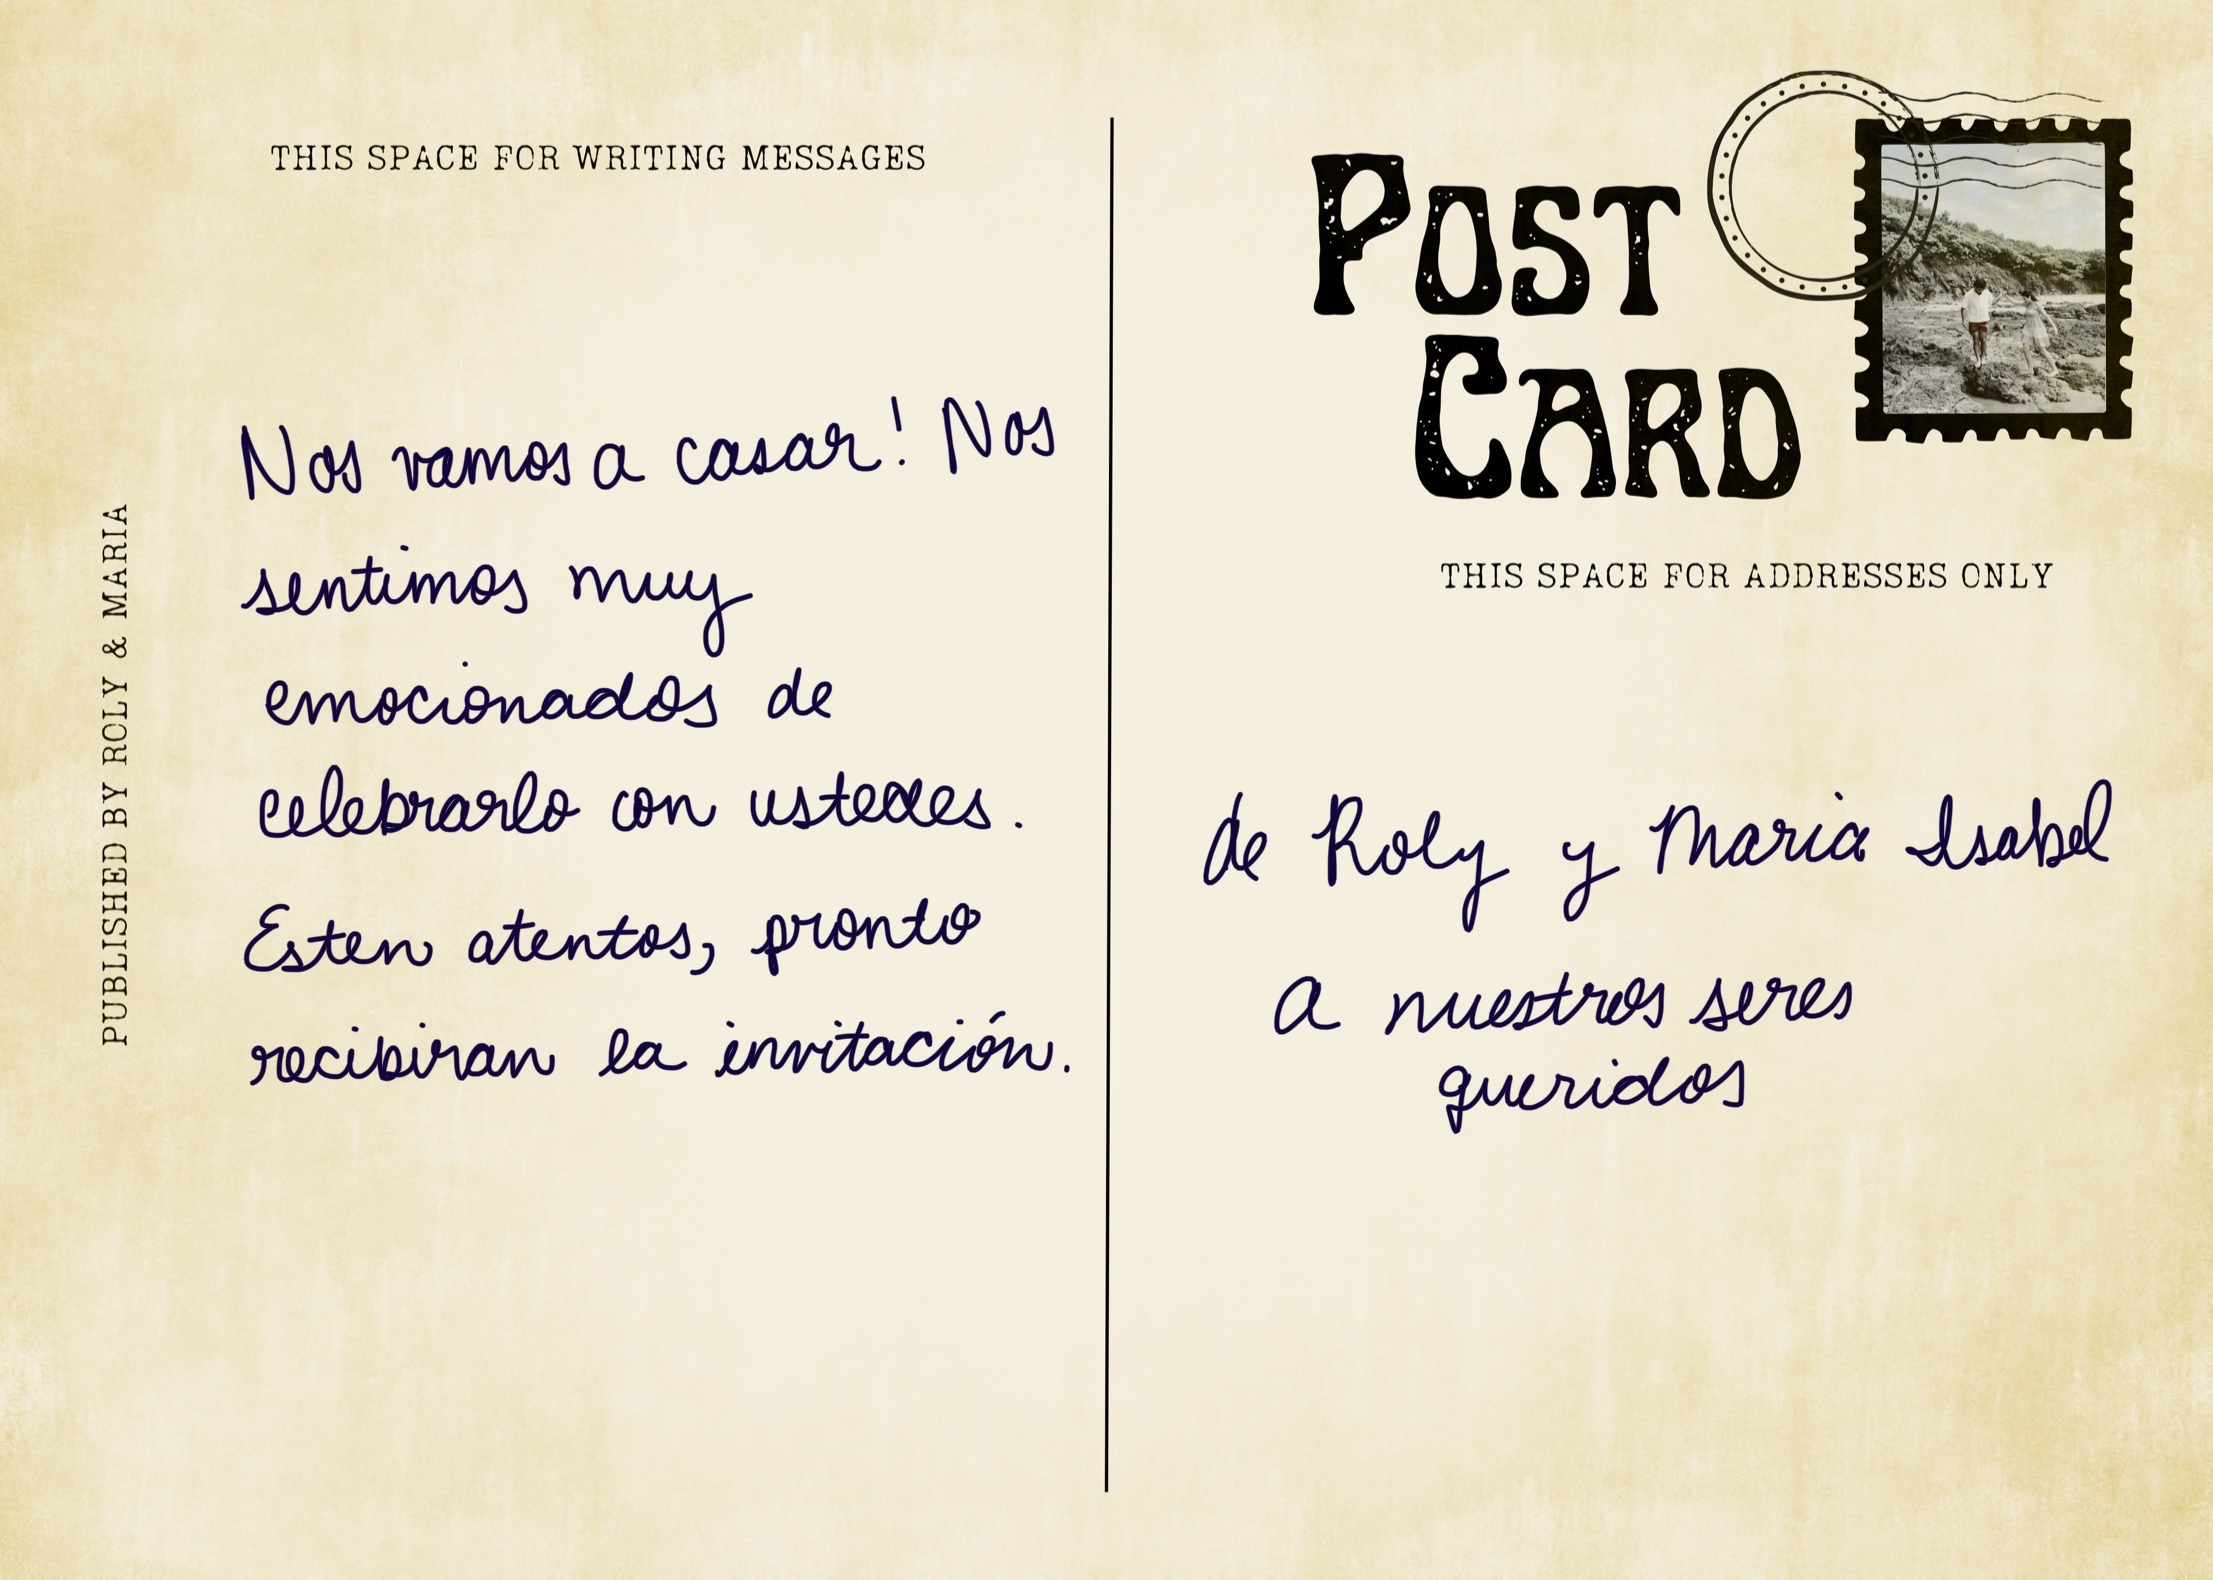
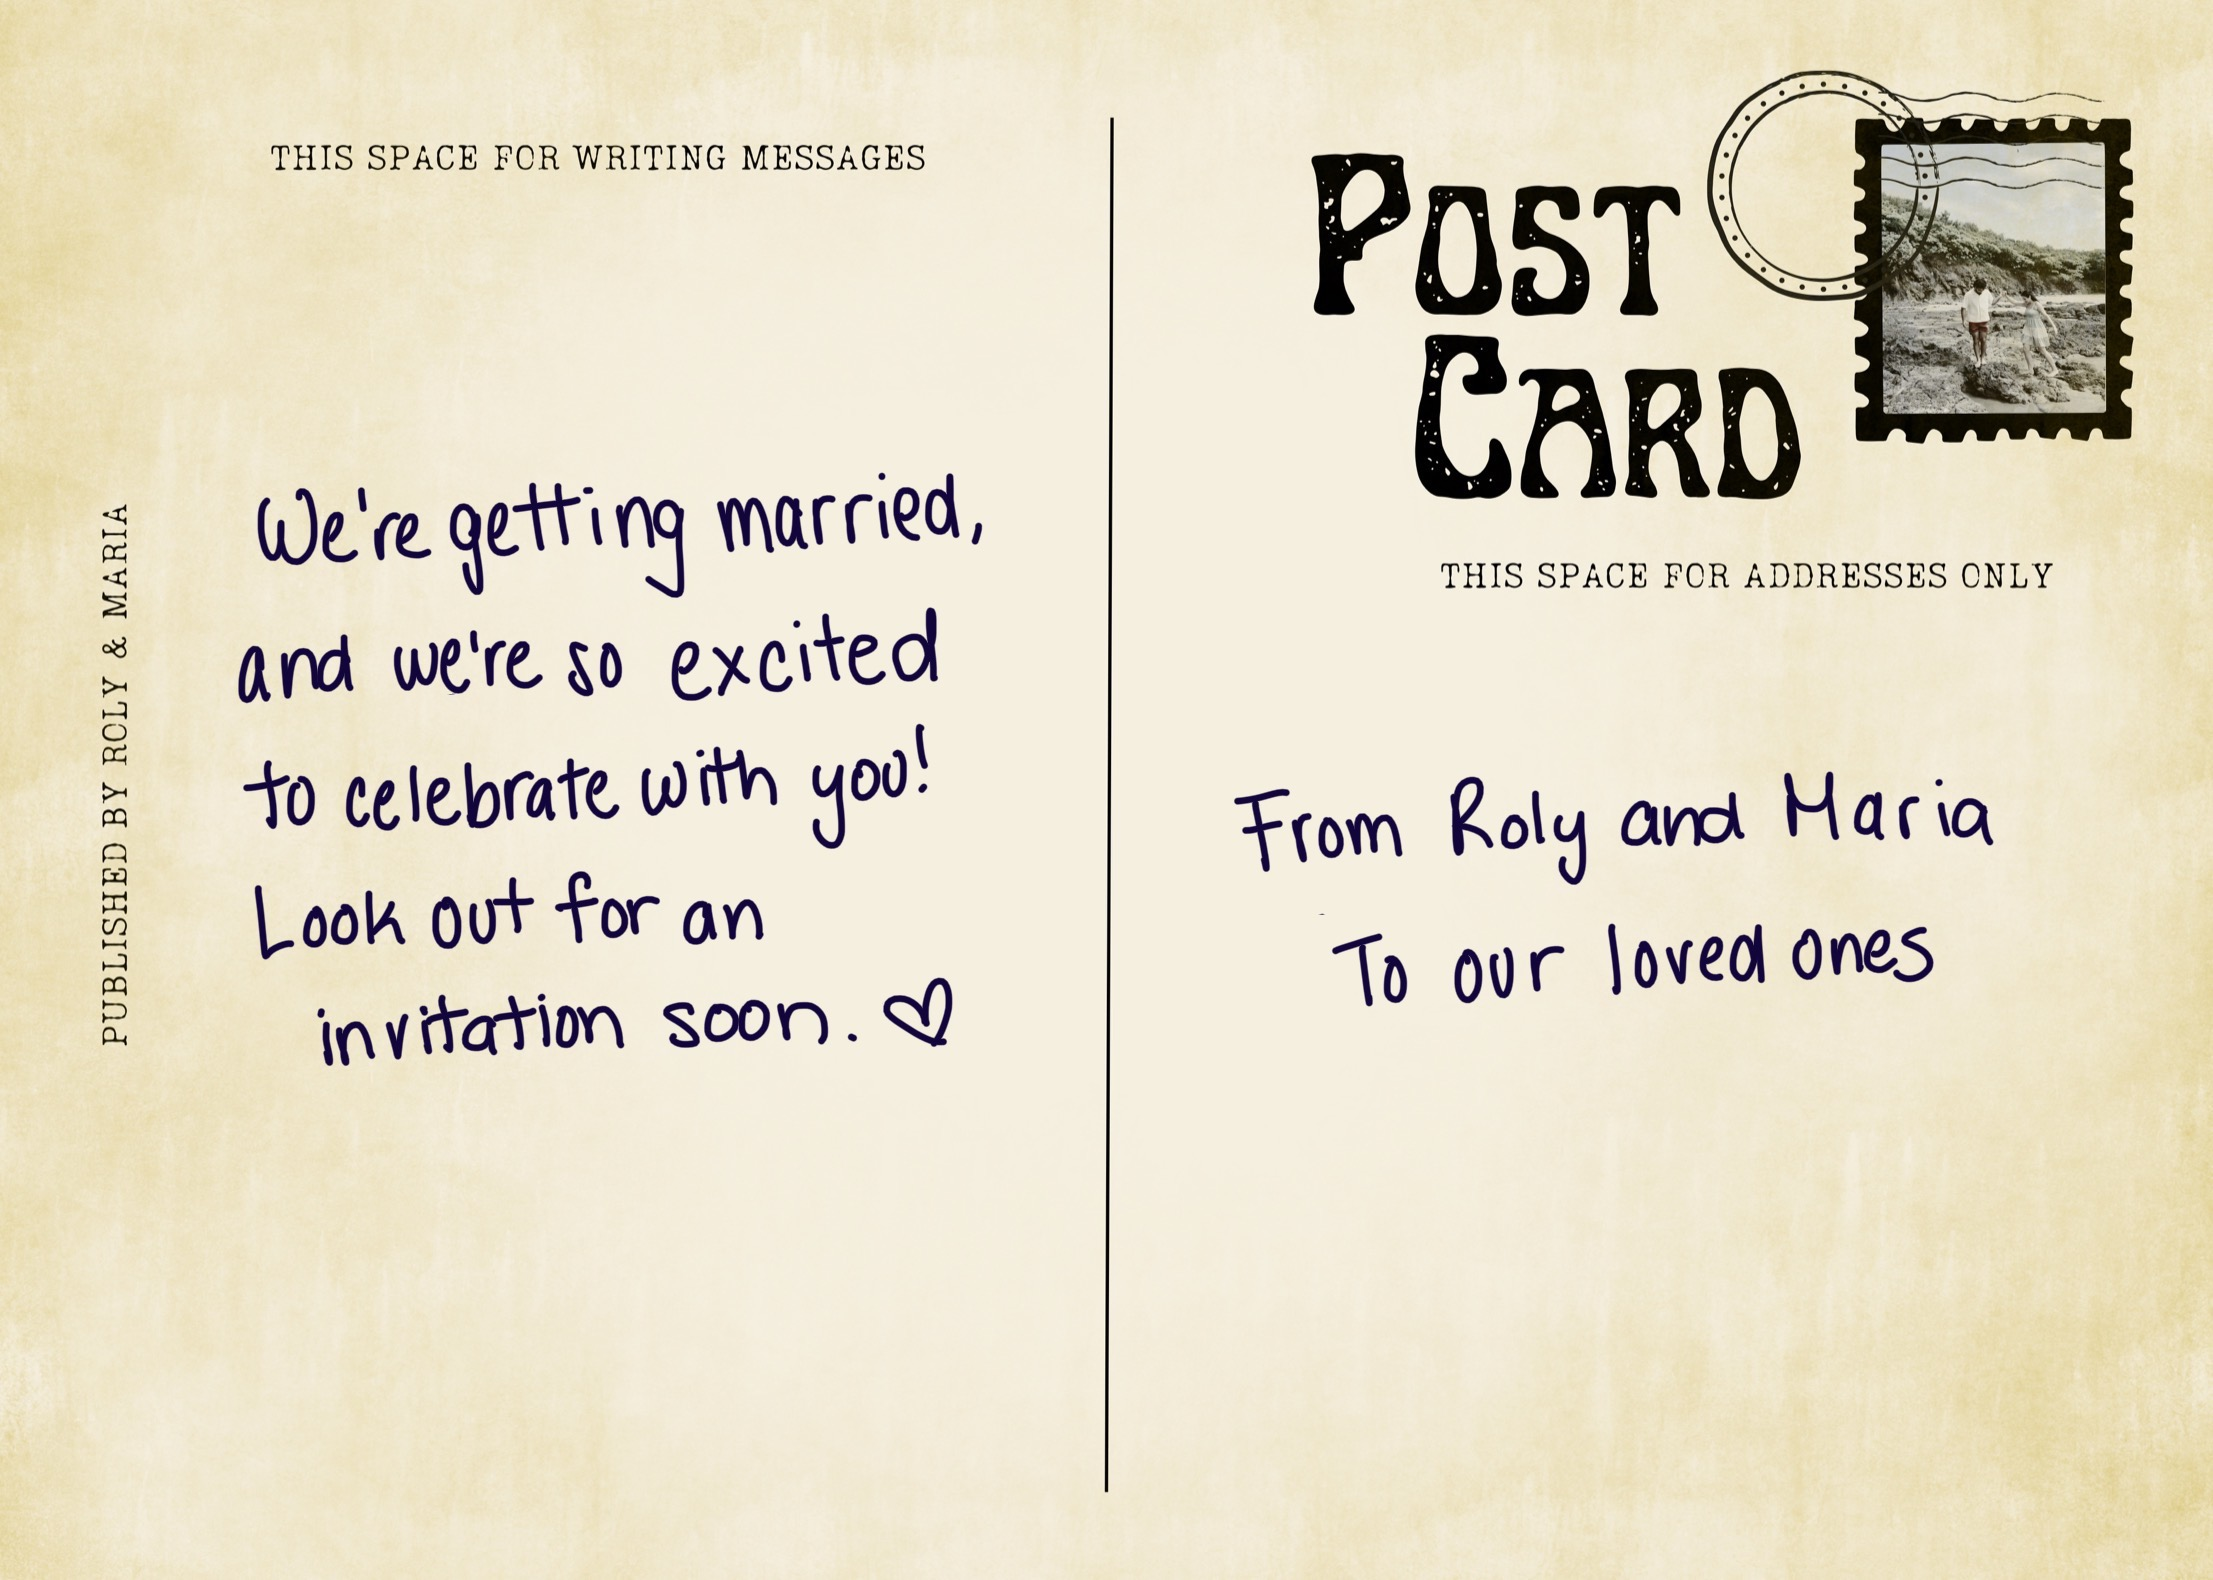
switch spanish and english

Changed region(s): [[0.0935, 0.2481, 0.4677, 0.5272], [0.53, 0.4962, 0.9666, 0.7133], [0.0935, 0.5582, 0.4677, 0.6823]]

diff --git a/app/es/page.tsx b/app/es/page.tsx
@@ -3,7 +3,7 @@ import { PostcardFlip } from '../components/PostcardFlip';
 export default function SpanishPage() {
   return (
     <div className="flex min-h-screen items-center justify-center bg-stone-100 dark:bg-stone-900 px-4">
-      <PostcardFlip backSrc="/2-2.jpeg" />
+      <PostcardFlip backSrc="/2-es.jpeg" />
     </div>
   );
 }
